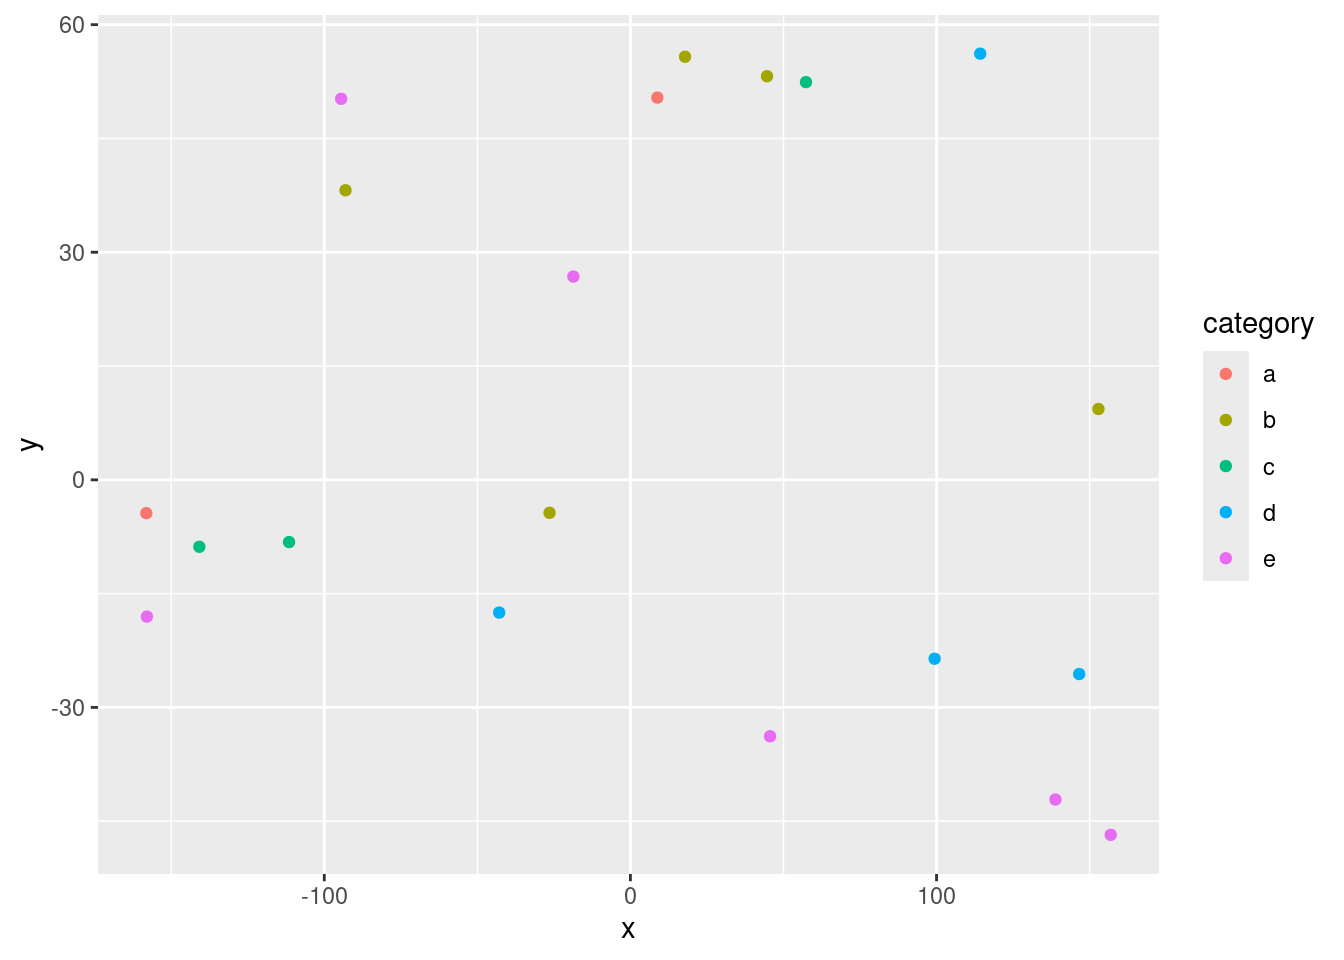
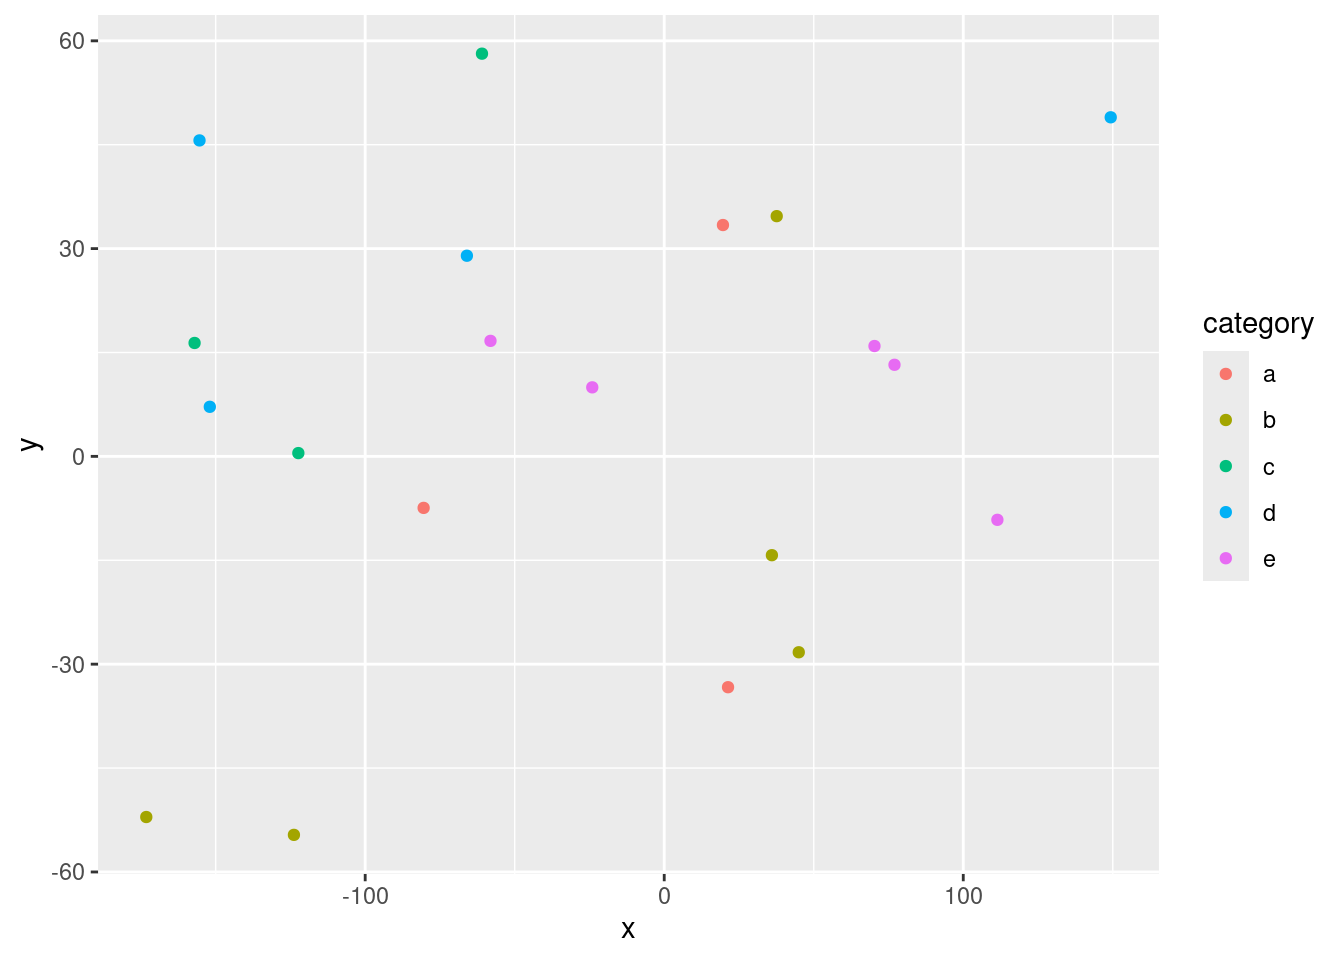
Built site for gh-pages

diff --git a/index.html b/index.html
@@ -168,7 +168,7 @@ pre > code.sourceCode > span > a:first-child::before { text-decoration: underlin
 <header id="title-block-header" class="quarto-title-block default">
 <div class="quarto-title">
 <h1 class="title">Unveiling Hidden Patterns: Clustering Analysis with ISMIP6 Models</h1>
-<p class="subtitle lead">Subtitle here if desired</p>
+<p class="subtitle lead">A PCA and Clustering Analysis</p>
 </div>
 
 
@@ -266,74 +266,74 @@ pre > code.sourceCode > span > a:first-child::before { text-decoration: underlin
 </thead>
 <tbody>
 <tr class="odd">
-<td style="text-align: center;">8.80</td>
-<td style="text-align: center;">50.38</td>
-<td style="text-align: center;">7.40</td>
-<td style="text-align: center;">a</td>
-<td style="text-align: center;">0.25</td>
-</tr>
-<tr class="even">
-<td style="text-align: center;">156.89</td>
-<td style="text-align: center;">-46.80</td>
-<td style="text-align: center;">19.93</td>
-<td style="text-align: center;">e</td>
-<td style="text-align: center;">-0.57</td>
-</tr>
-<tr class="odd">
-<td style="text-align: center;">-158.14</td>
-<td style="text-align: center;">-4.40</td>
-<td style="text-align: center;">17.45</td>
-<td style="text-align: center;">a</td>
-<td style="text-align: center;">-0.93</td>
-</tr>
-<tr class="even">
-<td style="text-align: center;">-18.64</td>
-<td style="text-align: center;">26.79</td>
-<td style="text-align: center;">15.94</td>
-<td style="text-align: center;">e</td>
-<td style="text-align: center;">-0.66</td>
-</tr>
-<tr class="odd">
-<td style="text-align: center;">45.63</td>
-<td style="text-align: center;">-33.81</td>
-<td style="text-align: center;">8.56</td>
-<td style="text-align: center;">e</td>
-<td style="text-align: center;">1.41</td>
-</tr>
-<tr class="even">
-<td style="text-align: center;">-93.06</td>
-<td style="text-align: center;">38.17</td>
-<td style="text-align: center;">18.63</td>
-<td style="text-align: center;">b</td>
-<td style="text-align: center;">-1.53</td>
-</tr>
-<tr class="odd">
-<td style="text-align: center;">114.27</td>
-<td style="text-align: center;">56.18</td>
-<td style="text-align: center;">10.00</td>
+<td style="text-align: center;">-151.96</td>
+<td style="text-align: center;">7.16</td>
+<td style="text-align: center;">11.73</td>
 <td style="text-align: center;">d</td>
-<td style="text-align: center;">0.11</td>
+<td style="text-align: center;">-1.26</td>
 </tr>
 <tr class="even">
-<td style="text-align: center;">146.59</td>
-<td style="text-align: center;">-25.60</td>
-<td style="text-align: center;">13.96</td>
+<td style="text-align: center;">-65.99</td>
+<td style="text-align: center;">28.97</td>
+<td style="text-align: center;">19.45</td>
 <td style="text-align: center;">d</td>
-<td style="text-align: center;">-0.77</td>
+<td style="text-align: center;">-0.76</td>
 </tr>
 <tr class="odd">
-<td style="text-align: center;">57.34</td>
-<td style="text-align: center;">52.42</td>
-<td style="text-align: center;">19.11</td>
+<td style="text-align: center;">-157.05</td>
+<td style="text-align: center;">16.37</td>
+<td style="text-align: center;">8.16</td>
 <td style="text-align: center;">c</td>
-<td style="text-align: center;">-1.83</td>
+<td style="text-align: center;">-0.07</td>
 </tr>
 <tr class="even">
-<td style="text-align: center;">44.62</td>
-<td style="text-align: center;">53.20</td>
-<td style="text-align: center;">8.89</td>
+<td style="text-align: center;">-122.35</td>
+<td style="text-align: center;">0.48</td>
+<td style="text-align: center;">11.93</td>
+<td style="text-align: center;">c</td>
+<td style="text-align: center;">0.36</td>
+</tr>
+<tr class="odd">
+<td style="text-align: center;">19.64</td>
+<td style="text-align: center;">33.40</td>
+<td style="text-align: center;">19.45</td>
+<td style="text-align: center;">a</td>
+<td style="text-align: center;">0.38</td>
+</tr>
+<tr class="even">
+<td style="text-align: center;">44.99</td>
+<td style="text-align: center;">-28.28</td>
+<td style="text-align: center;">12.01</td>
 <td style="text-align: center;">b</td>
-<td style="text-align: center;">1.11</td>
+<td style="text-align: center;">1.50</td>
+</tr>
+<tr class="odd">
+<td style="text-align: center;">36.01</td>
+<td style="text-align: center;">-14.27</td>
+<td style="text-align: center;">13.55</td>
+<td style="text-align: center;">b</td>
+<td style="text-align: center;">-2.34</td>
+</tr>
+<tr class="even">
+<td style="text-align: center;">-80.46</td>
+<td style="text-align: center;">-7.44</td>
+<td style="text-align: center;">17.82</td>
+<td style="text-align: center;">a</td>
+<td style="text-align: center;">-1.60</td>
+</tr>
+<tr class="odd">
+<td style="text-align: center;">-58.10</td>
+<td style="text-align: center;">16.68</td>
+<td style="text-align: center;">15.86</td>
+<td style="text-align: center;">e</td>
+<td style="text-align: center;">-0.48</td>
+</tr>
+<tr class="even">
+<td style="text-align: center;">37.62</td>
+<td style="text-align: center;">34.69</td>
+<td style="text-align: center;">8.43</td>
+<td style="text-align: center;">b</td>
+<td style="text-align: center;">1.42</td>
 </tr>
 </tbody>
 </table>
@@ -355,8 +355,8 @@ pre > code.sourceCode > span > a:first-child::before { text-decoration: underlin
 <span id="cb5-4"><a href="#cb5-4" aria-hidden="true" tabindex="-1"></a>  <span class="fu">addPopups</span>(<span class="sc">~</span>x[<span class="dv">2</span>], <span class="sc">~</span>y[<span class="dv">2</span>], <span class="st">"Random popup"</span>)</span>
 <span id="cb5-5"><a href="#cb5-5" aria-hidden="true" tabindex="-1"></a>m  <span class="co"># a map with the default OSM tile layer</span></span></code><button title="Copy to Clipboard" class="code-copy-button"><i class="bi"></i></button></pre></div>
 <div class="cell-output-display">
-<div class="leaflet html-widget html-fill-item" id="htmlwidget-1340d7750c1cea75c51c" style="width:100%;height:325px;"></div>
-<script type="application/json" data-for="htmlwidget-1340d7750c1cea75c51c">{"x":{"options":{"crs":{"crsClass":"L.CRS.EPSG3857","code":null,"proj4def":null,"projectedBounds":null,"options":{}}},"calls":[{"method":"addTiles","args":["https://{s}.tile.openstreetmap.org/{z}/{x}/{y}.png",null,null,{"minZoom":0,"maxZoom":18,"tileSize":256,"subdomains":"abc","errorTileUrl":"","tms":false,"noWrap":false,"zoomOffset":0,"zoomReverse":false,"opacity":1,"zIndex":1,"detectRetina":false,"attribution":"&copy; <a href=\"https://openstreetmap.org/copyright/\">OpenStreetMap<\/a>,  <a href=\"https://opendatacommons.org/licenses/odbl/\">ODbL<\/a>"}]},{"method":"addCircleMarkers","args":[[50.38371339440346,-46.80318365804851,-4.395318618044257,26.7947700060904,-33.80677537992597,38.1705990806222,56.17578299716115,-25.60012735426426,52.42303412407637,53.1998756993562,-42.14372098445892,50.22661789320409,9.334002239629626,-8.203477766364813,-4.351544547826052,-17.49921279028058,-8.828230490908027,55.77101851813495,-23.58474352397025,-18.02867126651108],[8.798533463850617,156.8908031936735,-158.141631251201,-18.64328761585057,45.62785559333861,-93.06278631091118,114.2658185586333,146.594070084393,57.34331868588924,44.62425839155912,138.8401148747653,-94.48524967767298,152.8800656273961,-111.5020489320159,-26.41896536573768,-42.86301467567682,-140.8160974178463,17.83900804817677,99.36980224214494,-157.9437278117985],[7.398763975361362,19.93174680159427,17.45086100068875,15.9430036181584,8.557283998234197,18.6303747643251,9.998347436776385,13.95874756737612,19.10957923275419,8.889348410302773,19.23658934189007,19.98499330249615,15.63993670395575,14.12386172800325,18.82069243816659,17.51484007108957,16.33802232565358,11.30472915596329,17.93370900908485,5.482110736193135],null,null,{"interactive":true,"className":"","stroke":true,"color":["a","e","a","e","e","b","d","d","c","b","e","e","b","c","b","d","c","b","d","e"],"weight":5,"opacity":0.5,"fill":true,"fillColor":["a","e","a","e","e","b","d","d","c","b","e","e","b","c","b","d","c","b","d","e"],"fillOpacity":0.2},null,null,null,null,null,{"interactive":false,"permanent":false,"direction":"auto","opacity":1,"offset":[0,0],"textsize":"10px","textOnly":false,"className":"","sticky":true},null]},{"method":"addPopups","args":[-46.80318365804851,156.8908031936735,"Random popup",null,null,{"maxWidth":300,"minWidth":50,"autoPan":true,"keepInView":false,"closeButton":true,"className":""}]}],"limits":{"lat":[-46.80318365804851,56.17578299716115],"lng":[-158.141631251201,156.8908031936735]}},"evals":[],"jsHooks":[]}</script>
+<div class="leaflet html-widget html-fill-item" id="htmlwidget-21591f6766c0a843fe90" style="width:100%;height:325px;"></div>
+<script type="application/json" data-for="htmlwidget-21591f6766c0a843fe90">{"x":{"options":{"crs":{"crsClass":"L.CRS.EPSG3857","code":null,"proj4def":null,"projectedBounds":null,"options":{}}},"calls":[{"method":"addTiles","args":["https://{s}.tile.openstreetmap.org/{z}/{x}/{y}.png",null,null,{"minZoom":0,"maxZoom":18,"tileSize":256,"subdomains":"abc","errorTileUrl":"","tms":false,"noWrap":false,"zoomOffset":0,"zoomReverse":false,"opacity":1,"zIndex":1,"detectRetina":false,"attribution":"&copy; <a href=\"https://openstreetmap.org/copyright/\">OpenStreetMap<\/a>,  <a href=\"https://opendatacommons.org/licenses/odbl/\">ODbL<\/a>"}]},{"method":"addCircleMarkers","args":[[7.156763942912221,28.97141983732581,16.37436473742127,0.4752082843333483,33.40304003097117,-28.28204632736742,-14.2670477181673,-7.437383690848947,16.67733195237815,34.68688515946269,-52.07018801942468,9.966631717979908,-33.32685923203826,58.1441583763808,15.93305124901235,45.61861353926361,13.22458136826754,48.95658530294895,-9.160705497488379,-54.64739168062806],[-151.9613051880151,-65.990348495543,-157.0541072264314,-122.35420784913,19.63846419006586,44.98932170681655,36.00592955946922,-80.45652925036848,-58.09931522235274,37.61693495325744,-173.2028481736779,-24.06264323741198,21.33794744499028,-60.94344416633248,70.3144549112767,-155.4085958003998,77.00290887616575,149.3118473701179,111.4138944447041,-123.8341884221882],[11.7332115676254,19.45205334690399,8.155852153431624,11.92929512122646,19.45434555644169,12.01337736914866,13.54588040034287,17.81792051508091,15.86368615040556,8.42630548751913,16.56640976550989,7.706932052969933,19.6919840190094,7.861687627155334,17.80384212732315,17.28036154061556,10.47344258637168,13.58152704895474,8.13610193436034,15.46777883544564],null,null,{"interactive":true,"className":"","stroke":true,"color":["d","d","c","c","a","b","b","a","e","b","b","e","a","c","e","d","e","d","e","b"],"weight":5,"opacity":0.5,"fill":true,"fillColor":["d","d","c","c","a","b","b","a","e","b","b","e","a","c","e","d","e","d","e","b"],"fillOpacity":0.2},null,null,null,null,null,{"interactive":false,"permanent":false,"direction":"auto","opacity":1,"offset":[0,0],"textsize":"10px","textOnly":false,"className":"","sticky":true},null]},{"method":"addPopups","args":[28.97141983732581,-65.990348495543,"Random popup",null,null,{"maxWidth":300,"minWidth":50,"autoPan":true,"keepInView":false,"closeButton":true,"className":""}]}],"limits":{"lat":[-54.64739168062806,58.1441583763808],"lng":[-173.2028481736779,149.3118473701179]}},"evals":[],"jsHooks":[]}</script>
 <p>Map of completely random data</p>
 </div>
 </div>
@@ -379,8 +379,8 @@ pre > code.sourceCode > span > a:first-child::before { text-decoration: underlin
 <span id="cb7-2"><a href="#cb7-2" aria-hidden="true" tabindex="-1"></a><span class="fu">dygraph</span>(nhtemp, <span class="at">main =</span> <span class="st">"New Haven Temperatures"</span>) <span class="sc">|&gt;</span> </span>
 <span id="cb7-3"><a href="#cb7-3" aria-hidden="true" tabindex="-1"></a>  <span class="fu">dyRangeSelector</span>(<span class="at">dateWindow =</span> <span class="fu">c</span>(<span class="st">"1920-01-01"</span>, <span class="st">"1960-01-01"</span>)) </span></code><button title="Copy to Clipboard" class="code-copy-button"><i class="bi"></i></button></pre></div>
 <div class="cell-output-display">
-<div class="dygraphs html-widget html-fill-item" id="htmlwidget-a965d3b1ae5391d2ce25" style="width:100%;height:464px;"></div>
-<script type="application/json" data-for="htmlwidget-a965d3b1ae5391d2ce25">{"x":{"attrs":{"title":"New Haven Temperatures","labels":["year","V1"],"legend":"auto","retainDateWindow":false,"axes":{"x":{"pixelsPerLabel":60}},"showRangeSelector":true,"dateWindow":["1920-01-01T00:00:00.000Z","1960-01-01T00:00:00.000Z"],"rangeSelectorHeight":40,"rangeSelectorPlotFillColor":" #A7B1C4","rangeSelectorPlotStrokeColor":"#808FAB","interactionModel":"Dygraph.Interaction.defaultModel"},"scale":"yearly","annotations":[],"shadings":[],"events":[],"format":"date","data":[["1912-01-01T00:00:00.000Z","1913-01-01T00:00:00.000Z","1914-01-01T00:00:00.000Z","1915-01-01T00:00:00.000Z","1916-01-01T00:00:00.000Z","1917-01-01T00:00:00.000Z","1918-01-01T00:00:00.000Z","1919-01-01T00:00:00.000Z","1920-01-01T00:00:00.000Z","1921-01-01T00:00:00.000Z","1922-01-01T00:00:00.000Z","1923-01-01T00:00:00.000Z","1924-01-01T00:00:00.000Z","1925-01-01T00:00:00.000Z","1926-01-01T00:00:00.000Z","1927-01-01T00:00:00.000Z","1928-01-01T00:00:00.000Z","1929-01-01T00:00:00.000Z","1930-01-01T00:00:00.000Z","1931-01-01T00:00:00.000Z","1932-01-01T00:00:00.000Z","1933-01-01T00:00:00.000Z","1934-01-01T00:00:00.000Z","1935-01-01T00:00:00.000Z","1936-01-01T00:00:00.000Z","1937-01-01T00:00:00.000Z","1938-01-01T00:00:00.000Z","1939-01-01T00:00:00.000Z","1940-01-01T00:00:00.000Z","1941-01-01T00:00:00.000Z","1942-01-01T00:00:00.000Z","1943-01-01T00:00:00.000Z","1944-01-01T00:00:00.000Z","1945-01-01T00:00:00.000Z","1946-01-01T00:00:00.000Z","1947-01-01T00:00:00.000Z","1948-01-01T00:00:00.000Z","1949-01-01T00:00:00.000Z","1950-01-01T00:00:00.000Z","1951-01-01T00:00:00.000Z","1952-01-01T00:00:00.000Z","1953-01-01T00:00:00.000Z","1954-01-01T00:00:00.000Z","1955-01-01T00:00:00.000Z","1956-01-01T00:00:00.000Z","1957-01-01T00:00:00.000Z","1958-01-01T00:00:00.000Z","1959-01-01T00:00:00.000Z","1960-01-01T00:00:00.000Z","1961-01-01T00:00:00.000Z","1962-01-01T00:00:00.000Z","1963-01-01T00:00:00.000Z","1964-01-01T00:00:00.000Z","1965-01-01T00:00:00.000Z","1966-01-01T00:00:00.000Z","1967-01-01T00:00:00.000Z","1968-01-01T00:00:00.000Z","1969-01-01T00:00:00.000Z","1970-01-01T00:00:00.000Z","1971-01-01T00:00:00.000Z"],[49.9,52.3,49.4,51.1,49.4,47.9,49.8,50.9,49.3,51.9,50.8,49.6,49.3,50.6,48.4,50.7,50.9,50.6,51.5,52.8,51.8,51.1,49.8,50.2,50.4,51.6,51.8,50.9,48.8,51.7,51,50.6,51.7,51.5,52.1,51.3,51,54,51.4,52.7,53.1,54.6,52,52,50.9,52.6,50.2,52.6,51.6,51.9,50.5,50.9,51.7,51.4,51.7,50.8,51.9,51.8,51.9,53]]},"evals":["attrs.interactionModel"],"jsHooks":[]}</script>
+<div class="dygraphs html-widget html-fill-item" id="htmlwidget-ea3dfc225287137f18e6" style="width:100%;height:464px;"></div>
+<script type="application/json" data-for="htmlwidget-ea3dfc225287137f18e6">{"x":{"attrs":{"title":"New Haven Temperatures","labels":["year","V1"],"legend":"auto","retainDateWindow":false,"axes":{"x":{"pixelsPerLabel":60}},"showRangeSelector":true,"dateWindow":["1920-01-01T00:00:00.000Z","1960-01-01T00:00:00.000Z"],"rangeSelectorHeight":40,"rangeSelectorPlotFillColor":" #A7B1C4","rangeSelectorPlotStrokeColor":"#808FAB","interactionModel":"Dygraph.Interaction.defaultModel"},"scale":"yearly","annotations":[],"shadings":[],"events":[],"format":"date","data":[["1912-01-01T00:00:00.000Z","1913-01-01T00:00:00.000Z","1914-01-01T00:00:00.000Z","1915-01-01T00:00:00.000Z","1916-01-01T00:00:00.000Z","1917-01-01T00:00:00.000Z","1918-01-01T00:00:00.000Z","1919-01-01T00:00:00.000Z","1920-01-01T00:00:00.000Z","1921-01-01T00:00:00.000Z","1922-01-01T00:00:00.000Z","1923-01-01T00:00:00.000Z","1924-01-01T00:00:00.000Z","1925-01-01T00:00:00.000Z","1926-01-01T00:00:00.000Z","1927-01-01T00:00:00.000Z","1928-01-01T00:00:00.000Z","1929-01-01T00:00:00.000Z","1930-01-01T00:00:00.000Z","1931-01-01T00:00:00.000Z","1932-01-01T00:00:00.000Z","1933-01-01T00:00:00.000Z","1934-01-01T00:00:00.000Z","1935-01-01T00:00:00.000Z","1936-01-01T00:00:00.000Z","1937-01-01T00:00:00.000Z","1938-01-01T00:00:00.000Z","1939-01-01T00:00:00.000Z","1940-01-01T00:00:00.000Z","1941-01-01T00:00:00.000Z","1942-01-01T00:00:00.000Z","1943-01-01T00:00:00.000Z","1944-01-01T00:00:00.000Z","1945-01-01T00:00:00.000Z","1946-01-01T00:00:00.000Z","1947-01-01T00:00:00.000Z","1948-01-01T00:00:00.000Z","1949-01-01T00:00:00.000Z","1950-01-01T00:00:00.000Z","1951-01-01T00:00:00.000Z","1952-01-01T00:00:00.000Z","1953-01-01T00:00:00.000Z","1954-01-01T00:00:00.000Z","1955-01-01T00:00:00.000Z","1956-01-01T00:00:00.000Z","1957-01-01T00:00:00.000Z","1958-01-01T00:00:00.000Z","1959-01-01T00:00:00.000Z","1960-01-01T00:00:00.000Z","1961-01-01T00:00:00.000Z","1962-01-01T00:00:00.000Z","1963-01-01T00:00:00.000Z","1964-01-01T00:00:00.000Z","1965-01-01T00:00:00.000Z","1966-01-01T00:00:00.000Z","1967-01-01T00:00:00.000Z","1968-01-01T00:00:00.000Z","1969-01-01T00:00:00.000Z","1970-01-01T00:00:00.000Z","1971-01-01T00:00:00.000Z"],[49.9,52.3,49.4,51.1,49.4,47.9,49.8,50.9,49.3,51.9,50.8,49.6,49.3,50.6,48.4,50.7,50.9,50.6,51.5,52.8,51.8,51.1,49.8,50.2,50.4,51.6,51.8,50.9,48.8,51.7,51,50.6,51.7,51.5,52.1,51.3,51,54,51.4,52.7,53.1,54.6,52,52,50.9,52.6,50.2,52.6,51.6,51.9,50.5,50.9,51.7,51.4,51.7,50.8,51.9,51.8,51.9,53]]},"evals":["attrs.interactionModel"],"jsHooks":[]}</script>
 </div>
 </div>
 </section>
